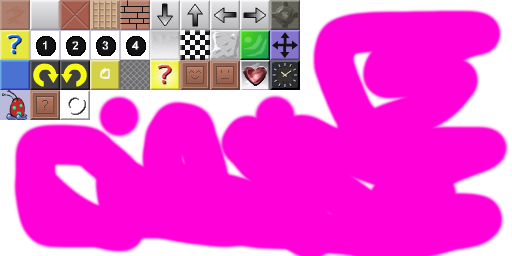
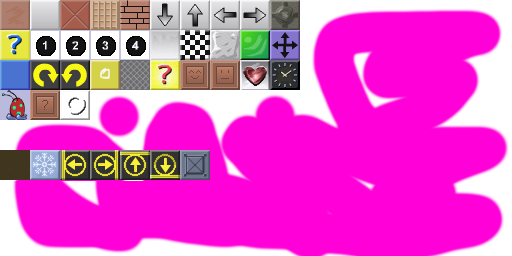
asdf

Changed region(s): [[0.0, 0.5625, 0.4375, 0.7188]]

diff --git a/BlockEditor/Views/Windows/AccountWindow.xaml.cs b/BlockEditor/Views/Windows/AccountWindow.xaml.cs
@@ -43,7 +43,7 @@ namespace BlockEditor.Views.Windows
                     continue;
 
                 var item = new ComboBoxItem();
-                item.Content = user.Name + " (" + user.Domain +")";
+                item.Content = user.Name + "  (" + new Uri(user.Domain).Host +")";
                 item.Tag = user;
 
                 cbUsers.Items.Add(item);